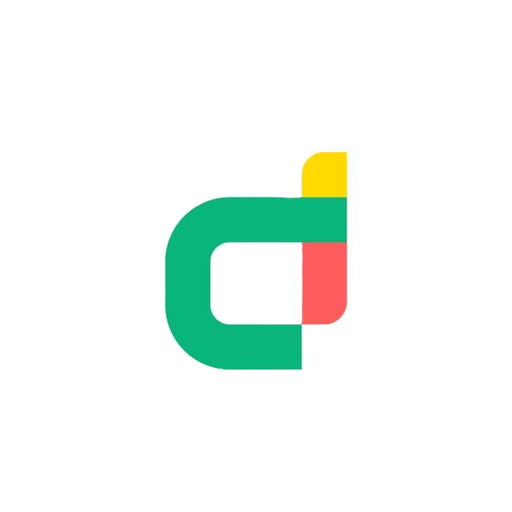
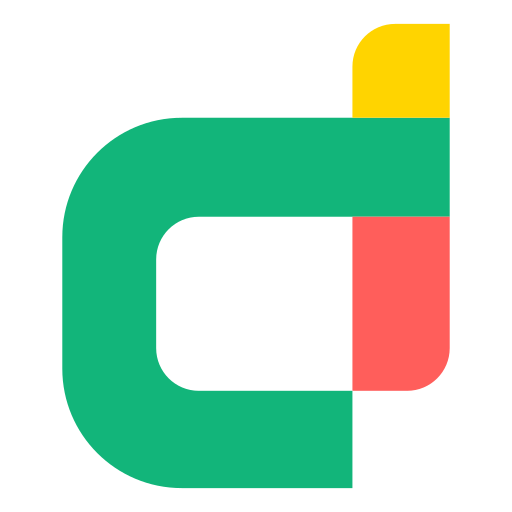
D8

diff --git a/scripts/generate-seo-assets.js b/scripts/generate-seo-assets.js
@@ -10,9 +10,11 @@ if (!fs.existsSync(publicDir)) {
   fs.mkdirSync(publicDir, { recursive: true });
 }
 
-// 1. Scalable SVG favicon
-const svgFaviconContent = `<svg xmlns="http://www.w3.org/2000/svg" viewBox="0 0 282 282" fill="none">
-  <g transform="translate(22.5, 2.5)">
+// 1. Scalable SVG favicon & Master Brand Mark
+// Bounding box of geometry: X: 5..232 (w=227, center=118.5), Y: 5..277 (h=272, center=141)
+// In a 300x300 viewBox with translate(31.5, 9), mark is perfectly centered with ~5% optical margin
+const svgFaviconContent = `<svg xmlns="http://www.w3.org/2000/svg" viewBox="0 0 300 300" fill="none">
+  <g transform="translate(31.5, 9)">
     <path fill="#12B57A" d="M75 60H232V118H85A25 25 0 0 0 60 143V195A25 25 0 0 0 85 220H175V277H75A70 70 0 0 1 5 207V130A70 70 0 0 1 75 60Z" />
     <path fill="#FFD400" d="M175 60V30A25 25 0 0 1 200 5H232V60Z" />
     <path fill="#FF5E5B" d="M175 118H232V195A25 25 0 0 1 207 220H175Z" />
@@ -22,7 +24,18 @@ const svgFaviconContent = `<svg xmlns="http://www.w3.org/2000/svg" viewBox="0 0 
 fs.writeFileSync(path.join(publicDir, 'favicon.svg'), svgFaviconContent.trim());
 console.log('Created favicon.svg');
 
-// 2. Generate standard PNG icons from logo.png
+const svgBuffer = Buffer.from(svgFaviconContent);
+
+// 2. Generate high-resolution official brand logo (640x640) for Google Knowledge Graph & Schema.org Organization
+async function generateLogo() {
+  await sharp(svgBuffer, { density: 300 })
+    .resize(640, 640)
+    .png()
+    .toFile(logoPath);
+  console.log('Created high-resolution public/logo.png (640x640)');
+}
+
+// 3. Generate standard PNG icons directly from vector SVG for maximum clarity
 const pngSizes = [
   { file: 'favicon-16x16.png', size: 16 },
   { file: 'favicon-32x32.png', size: 32 },
@@ -34,24 +47,21 @@ const pngSizes = [
 
 async function generatePngs() {
   for (const { file, size } of pngSizes) {
-    await sharp(logoPath)
-      .resize(size, size, {
-        fit: 'contain',
-        background: { r: 0, g: 0, b: 0, alpha: 0 }
-      })
+    await sharp(svgBuffer, { density: 300 })
+      .resize(size, size)
       .png()
       .toFile(path.join(publicDir, file));
     console.log(`Created ${file} (${size}x${size})`);
   }
 }
 
-// 3. Generate multi-resolution favicon.ico containing 16, 32, 48 sizes
+// 4. Generate multi-resolution favicon.ico containing 16, 32, 48 sizes from vector SVG
 async function generateIco() {
   const icoSizes = [16, 32, 48];
   const pngBuffers = await Promise.all(
     icoSizes.map(s =>
-      sharp(logoPath)
-        .resize(s, s, { fit: 'contain', background: { r: 0, g: 0, b: 0, alpha: 0 } })
+      sharp(svgBuffer, { density: 300 })
+        .resize(s, s)
         .png()
         .toBuffer()
     )
@@ -210,6 +220,15 @@ Allow: /favicon-*.png
 Allow: /apple-touch-icon.png
 Allow: /android-chrome-*.png
 Allow: /og-image.png
+
+User-agent: Google Favicon
+Allow: /
+Allow: /favicon.ico
+Allow: /favicon.svg
+Allow: /favicon-48x48.png
+Allow: /favicon-*.png
+Allow: /android-chrome-*.png
+Allow: /logo.png
 
 User-agent: Bingbot
 Allow: /
@@ -783,6 +802,7 @@ async function optimizeImages() {
 
 async function main() {
   try {
+    await generateLogo();
     await generatePngs();
     await generateIco();
     await generateOgImage();

diff --git a/index.html b/index.html
@@ -54,11 +54,10 @@
     <link rel="logo" type="image/png" href="https://www.devrious.lk/logo.png" />
 
     <!-- Google Favicon & App Icons (Google Search Central Compliant) -->
-    <link rel="icon" type="image/x-icon" href="/favicon.ico" sizes="any" />
-    <link rel="icon" type="image/svg+xml" href="/favicon.svg" />
     <link rel="icon" type="image/png" sizes="48x48" href="/favicon-48x48.png" />
-    <link rel="icon" type="image/png" sizes="32x32" href="/favicon-32x32.png" />
-    <link rel="icon" type="image/png" sizes="16x16" href="/favicon-16x16.png" />
+    <link rel="icon" type="image/png" sizes="192x192" href="/android-chrome-192x192.png" />
+    <link rel="icon" type="image/svg+xml" href="/favicon.svg" sizes="any" />
+    <link rel="shortcut icon" href="/favicon.ico" />
     <link rel="apple-touch-icon" sizes="180x180" href="/apple-touch-icon.png" />
     <link rel="manifest" href="/site.webmanifest" />
 
@@ -111,17 +110,8 @@
             "@type": "Organization",
             "@id": "https://www.devrious.lk/#organization",
             "name": "Devrious",
-            "url": "https://www.devrious.lk",
-            "logo": {
-              "@type": "ImageObject",
-              "@id": "https://www.devrious.lk/#logo",
-              "url": "https://www.devrious.lk/logo.png",
-              "contentUrl": "https://www.devrious.lk/logo.png",
-              "caption": "Devrious Official Brand Logo",
-              "description": "Devrious signature tri-color emblem in emerald green (#12B57A), golden yellow (#FFD400), and coral red (#FF5E5B)",
-              "width": 640,
-              "height": 640
-            },
+            "url": "https://www.devrious.lk/",
+            "logo": "https://www.devrious.lk/logo.png",
             "image": "https://www.devrious.lk/logo.png",
             "description": "Devrious is a software development studio in Sri Lanka specializing in custom web applications, Django DRF systems, AI assistants, and enterprise solutions.",
             "email": "info@devrious.lk",
@@ -153,8 +143,13 @@
           {
             "@type": "WebSite",
             "@id": "https://www.devrious.lk/#website",
-            "url": "https://www.devrious.lk",
+            "url": "https://www.devrious.lk/",
             "name": "Devrious",
+            "alternateName": [
+              "Devrious LK",
+              "Devrious Software",
+              "devrious.lk"
+            ],
             "description": "Custom Software, Web & AI Development Studio in Sri Lanka",
             "publisher": {
               "@id": "https://www.devrious.lk/#organization"
@@ -165,9 +160,9 @@
             "@type": "ProfessionalService",
             "@id": "https://www.devrious.lk/#localbusiness",
             "name": "Devrious",
-            "url": "https://www.devrious.lk",
+            "url": "https://www.devrious.lk/",
             "logo": "https://www.devrious.lk/logo.png",
-            "image": "https://www.devrious.lk/og-image.png",
+            "image": "https://www.devrious.lk/logo.png",
             "telephone": "+94706611936",
             "email": "info@devrious.lk",
             "priceRange": "$$",

diff --git a/src/App.tsx b/src/App.tsx
@@ -1,10 +1,8 @@
-import React, { useEffect, Suspense, lazy } from 'react';
+import React, { Suspense, lazy } from 'react';
 import { BrowserRouter, Route, Routes } from 'react-router-dom';
 import { CurrencyProvider } from './contexts/CurrencyContext';
 import { Layout } from './components/layout/Layout';
 import { Home } from './pages/Home';
-import { company } from './data/site';
-import { setFavicon } from './utils/document';
 
 const Services = lazy(() => import('./pages/Services').then((m) => ({ default: m.Services })));
 const PreBuilds = lazy(() => import('./pages/PreBuilds').then((m) => ({ default: m.PreBuilds })));
@@ -17,10 +15,6 @@ const Legal = lazy(() => import('./pages/Legal').then((m) => ({ default: m.Legal
 const NotFound = lazy(() => import('./pages/NotFound').then((m) => ({ default: m.NotFound })));
 
 export function App() {
-  useEffect(() => {
-    setFavicon(company.logo);
-  }, []);
-
   return (
     <CurrencyProvider>
       <BrowserRouter>
